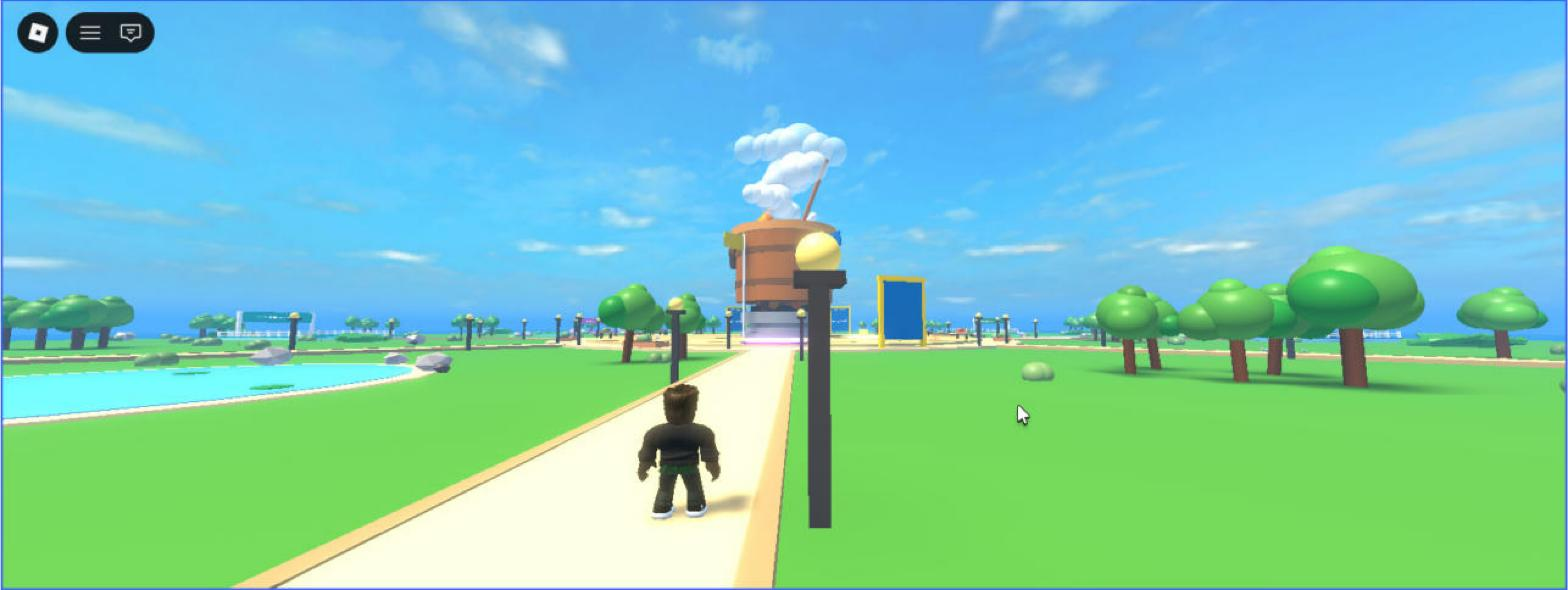
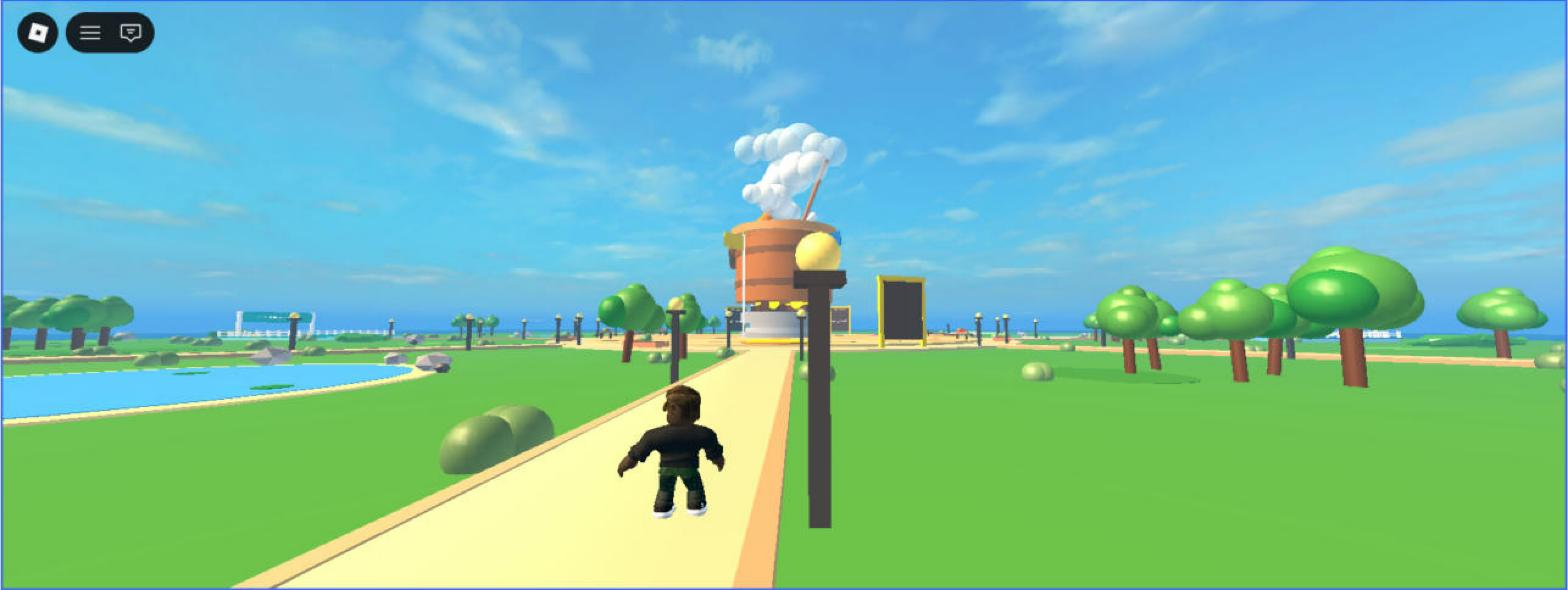
Fase 1.2 rodada 3: luz de tarde quente, fogo com brilho, placares de madeira, evento dourado, contorno nas placas, manchas de grama

diff --git a/docs/qa/FASE1_MUNDO_EVIDENCIAS.md b/docs/qa/FASE1_MUNDO_EVIDENCIAS.md
@@ -1,60 +1,69 @@
 # Fase 1 — mundo novo: evidências (07/11/2026)
 
-Estilo: cartoon pintado (GAME_BRIEF §5). Guia: `make-map/styles/simulator.md`. Luz: receita "Bright cartoon"
+Estilo: cartoon pintado (GAME_BRIEF §5). Guia: `make-map/styles/simulator.md`. Luz: receita "Bright cartoon" ajustada
 (`src/shared/LightingRecipes.lua`). Mundo gerado por código a cada início de servidor (`src/server/World.lua`, semente fixa)
 com o MapKit do fwjelaa vendorizado (`src/vendor/server/MapKit`).
 
-## O que existe agora (depois da rodada de correção 2)
-- **Ilha** de grama (raio 470) com praia, faixa de água rasa e mar até o horizonte, tudo de peça (sem água de terreno).
+## O que existe agora (depois da rodada de correção 3)
+- **Ilha** de grama (raio 470) com manchas de grama em dois tons, praia, faixa de água rasa e mar até o horizonte,
+  tudo de peça (sem água de terreno).
 - **Praça** em dois degraus (r 138 / r 120), anel e 8 faixas-guia no piso apontando para o centro.
-- **Marco:** Caldeirão do Banquete sobre **pedestal de pedra de 3 degraus**, cobre, sopa, coxa, cenoura e concha
-  gigantes, vapor de nuvens; **4 bandeiras** de 64 studs nas cores das bases (r 34, fora do caldeirão e da faixa de drops).
-- **4 mesas de banquete** com toalha, bancos e comida; 5 canteiros; loja (norte), evento (sul), 3 placares.
-- **Postes de luz:** 2 em cada entrada de caminho na praça + ao longo de todos os caminhos (a cada ~45 studs, alternando).
-- **8 caminhos** de 14 studs com bordas.
-- **8 bases** com cor-tema (piso claro, borda, slots e pedestal na cor-tema, cerca branca). **Placa nos fundos**, alta e
-  virada para o centro: não tapa mais a vista do caldeirão.
+- **Marco:** Caldeirão do Banquete sobre pedestal de pedra de 3 degraus; **fogo Neon com luz quente** (PointLight sem
+  sombra); cobre, sopa, coxa, cenoura e concha gigantes; vapor; 4 bandeiras de 64 studs nas cores das bases (r 34).
+- **4 mesas de banquete**, 5 canteiros, loja (barraca, norte), **evento dourado** (sul), **3 placares de madeira**.
+- **Postes de luz** nas entradas e ao longo de todos os caminhos, com **arbustos** do lado oposto.
+- **8 bases** com cor-tema, cerca branca; **placa nos fundos** com **contorno escuro no texto**.
 - **3 lagos** com vitórias-régias e pedras; árvores em grupos, arbustos, flores, pedras e colinas baixas.
-- Névoa mais forte (Atmosphere Density 0,3 / Haze 1,2) para dar profundidade.
+- **Luz:** sol de tarde (ClockTime 15) e mais quente, contraste 0,12 e tom quente na correção de cor, raios de sol sutis,
+  névoa para profundidade.
 
 ## Verificação (place de teste, Play)
 | Gate | Resultado |
 |---|---|
 | Verificador Luau | overall PASS (45 arquivos) |
 | Caminhada (PathfindingService, agente raio 2 / altura 5) | **24/24 rotas** (8 bases → loja, faixa de drops, evento) |
-| Props flutuando/enterrados (raycast do pivô) | **0 de 285** |
+| Props flutuando/enterrados (raycast do pivô) | **0 de 285** modelos de natureza; **0 de 40** arbustos dos caminhos |
 | Peças não ancoradas no mapa | **0** |
 | Decoração com colisão (flores, arbustos, nuvens) | **0** |
 | Obstáculos sólidos na faixa de drops (r 36–96) | **0** |
 | Bandeiras fora do caldeirão | mastro r 34 > raio do caldeirão 32,3 |
-| Peças no mapa | 4.734 (alvo < 10.000) |
+| Peças no mapa | 4.860 (alvo < 10.000) |
 
 **Orçamento por vista** (SceneAnalysisService, sem sombras, qualidade fixada; alvo celular 500k triângulos / 500 draw calls):
 
 | Vista | Qualidade 5 | Qualidade 10 |
 |---|---|---|
-| Saindo da base, olhando o centro | 272k / 31 draws | 287k / 41 draws |
-| Aérea | 394k / 34 | 430k / 38 |
-| Praça | 175k / 28 | 188k / 33 |
-| Natureza (nordeste) | 314k / 28 | 345k / 32 |
-| Natureza (noroeste) | 347k / 33 | 379k / 38 |
+| Saindo da base, olhando o centro | 306k / 38 draws | 318k / 43 |
+| Aérea | 431k / 39 | 467k / 40 |
+| Praça | 189k / 32 | 202k / 37 |
+| Natureza (nordeste) | 352k / 29 | 383k / 33 |
+| Natureza (noroeste) | 380k / 33 | 412k / 38 |
 
-Medido antes da troca da água: a água de terreno custava ~290k triângulos e ~300 draw calls por vista. Foi removida.
+Antes da troca da água: a água de terreno custava ~290k triângulos e ~300 draw calls por vista. Foi removida.
 
 ## Fotos (`docs/qa/shots/fase1/`)
-`00_antes.jpg` (antes: campo plano) · `01_caminho_com_avatar.jpg` · `02_aerea.jpg` · `03_praca_banquete.jpg` ·
-`04_dentro_da_base.jpg` · `05_chegando_na_base.jpg`. Capturas com o avatar R15 no quadro e com a UI de tela e os letreiros
-flutuantes (nomes, drops, chuva de comida do evento) desligados **só no cliente da foto**. As fotos da primeira versão
-estão em `rodada1/`.
+- `00_antes.jpg`: estado antes da Fase 1, com o campo plano.
+- `01_caminho_com_avatar.jpg`
+- `02_aerea.jpg`
+- `03_praca_banquete.jpg`
+- `04_dentro_da_base.jpg`
+- `05_chegando_na_base.jpg`
 
-## Histórico das rodadas
-| Rodada | O que mudou | Nota do painel |
-|---|---|---|
-| 1 (antes do painel) | borda da ilha arredondada, menos pedras, caminho/praça mais quentes, caldeirão 1,7× e de cobre, placares azuis, faixas no piso, slots na cor-tema, placa nos dois lados | 5,0 (mediana [1,1,1,1,1,1]) |
-| 2 | placa para os fundos; pedestal e bandeiras no marco; mesas de banquete; postes nas entradas e nos caminhos; 3 lagos; névoa; mar sem água de terreno; fotos com avatar e sem letreiros | (este painel) |
+Capturas com o avatar R15 no quadro. A UI de tela e os letreiros flutuantes (nomes, drops, chuva de comida do evento)
+foram desligados **só no cliente da foto**. As versões anteriores estão em `rodada1/` e `rodada2/`.
+
+## Histórico das rodadas (rubrica `world`, 3 revisores cegos, mediana por critério, soma refeita)
+| Rodada | O que mudou | Mediana W1..W6 | Nota |
+|---|---|---|---|
+| 1 | primeira versão + ajustes (borda, pedras, cores, caldeirão 1,7×, placares, faixas, slots, placa nos 2 lados) | [1,1,1,1,1,1] | 5,0 |
+| 2 | placa para os fundos; pedestal e bandeiras; banquete; postes; lagos; névoa; mar sem água de terreno; fotos com avatar | [2,2,1,1,1,2] | 7,9 |
+| 3 | sol de tarde e mais quente, correção de cor quente, raios de sol, fogo Neon com luz; placares de madeira; evento dourado; contorno no texto das placas; manchas de grama; arbustos nos caminhos | (este painel) | |
 
 ## Não feito / limites
-- O marco e os props são primitivas sem textura pintada; a textura pintada entra com os modelos na Fase 2.
-- O texto branco da placa da base amarela tem pouco contraste (`05_chegando_na_base.jpg`). Próximo ajuste: contorno escuro no texto.
-- Desempenho medido só no PC (qualidade fixada em 5 e 10). Falta o teste em celular de verdade.
-- Ao dar Play, o Studio mostra o aviso "Tecnologia de migração de iluminação", porque o projeto deixou de usar `Technology` (obsoleta).
+- O marco e os props são primitivas, sem textura pintada. A textura pintada entra com os modelos da Fase 2.
+- Desempenho medido só no PC, com a qualidade fixada em 5 e 10. Falta o teste em celular de verdade.
+- Com pouca memória no PC, a qualidade automática do Studio encurtou a distância de desenho e escondeu o marco na vista
+  aérea (rodada 3, primeira captura). Com memória livre, tudo aparece. `StreamingEnabled` está desligado; o marco já
+  está marcado como `Persistent` para quando for ligado.
+- Ao dar Play, o Studio mostra o aviso "Tecnologia de migração de iluminação", porque o projeto deixou de usar `Technology`
+  (obsoleta).
